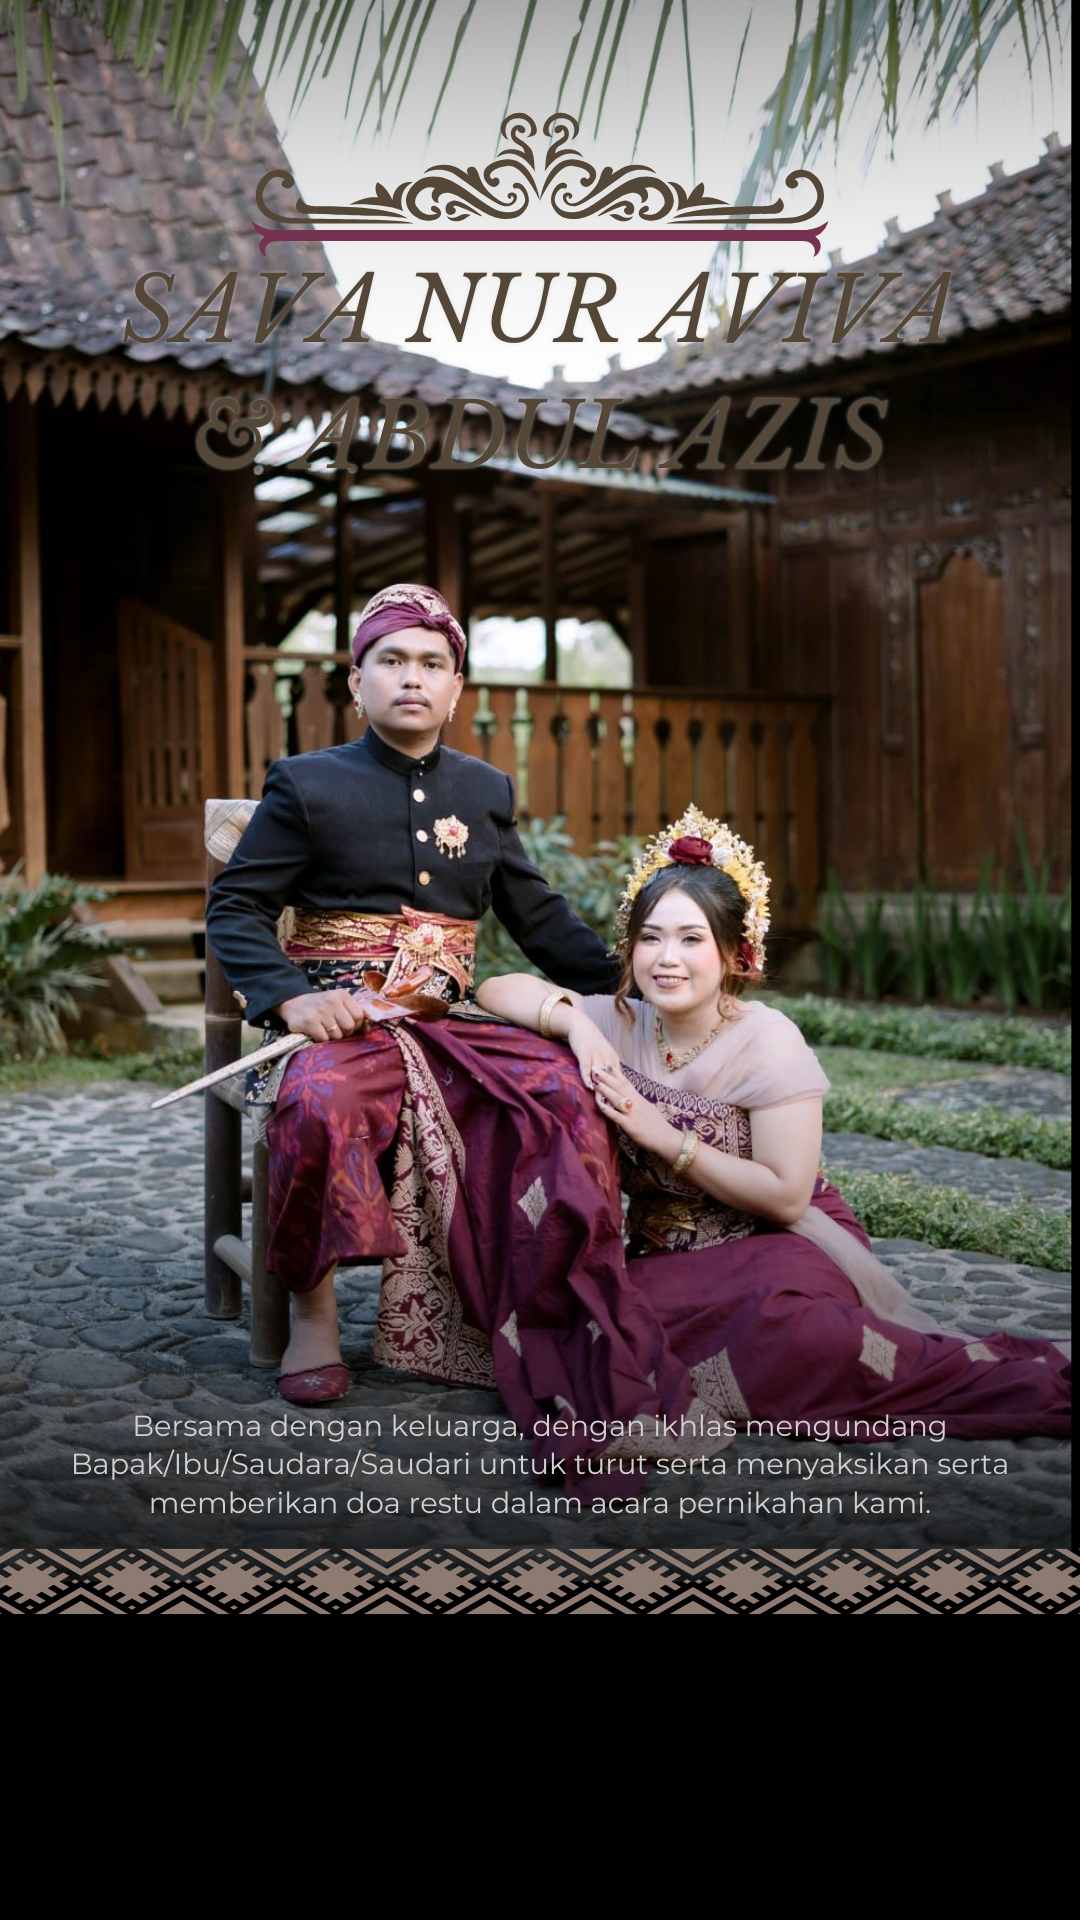
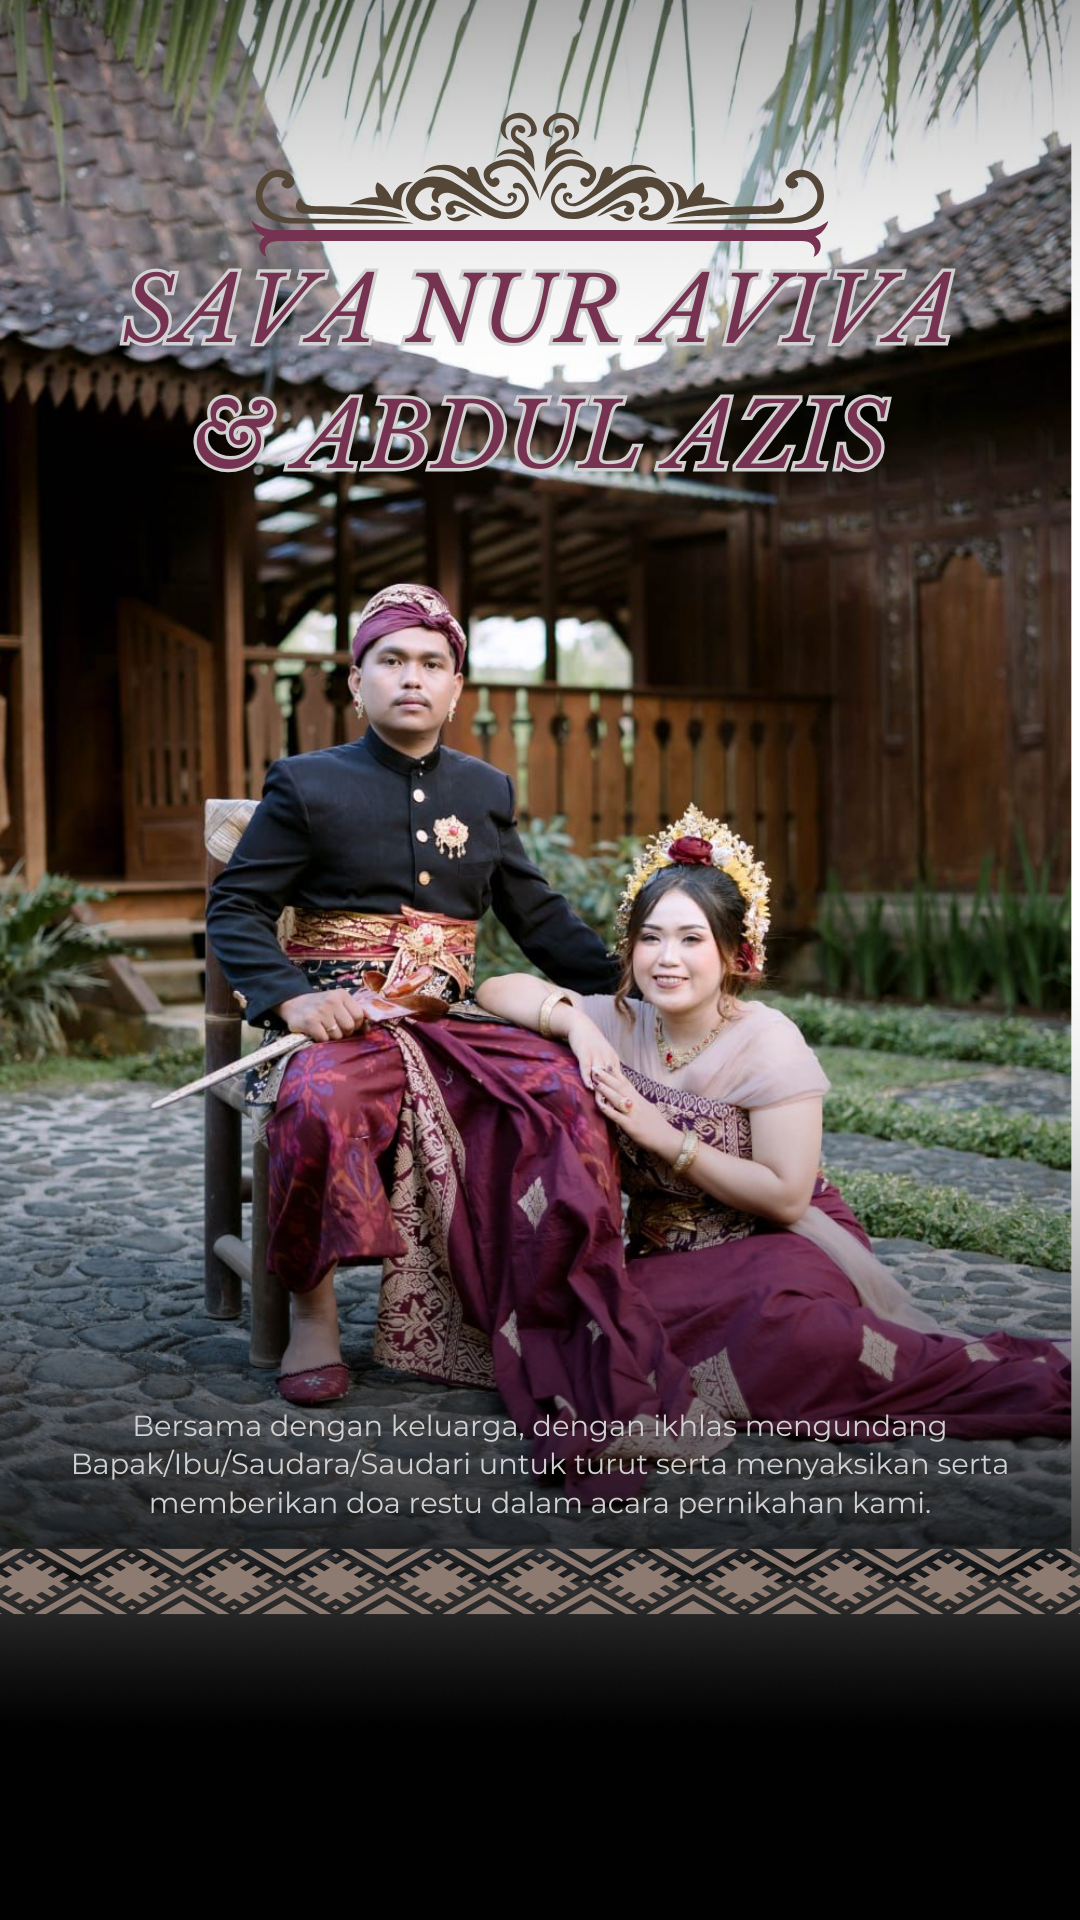
menganti foto pertama

Changed region(s): [[0.0, 0.0, 1.0, 0.875], [0.0917, 0.125, 0.8861, 0.25]]

diff --git a/app/undangan/page.tsx b/app/undangan/page.tsx
@@ -4,18 +4,18 @@ import Music from "@/components/music/music"
 import FadeContent from "@/components/FadeContent/FadeContent"
 import AnimatedContent from "@/components/AnimatedContent/AnimatedContent"
 
-const undangan =()=>{
-    return (
-        <>
-        <div className="md:px-96">
-          <Music></Music>
-        </div>
-    
-        <FadeContent blur={true} duration={1000} easing="ease-out" initialOpacity={0}>
+const undangan = () => {
+  return (
+    <>
+      <div className="md:px-96">
+        <Music></Music>
+      </div>
+
+      <FadeContent blur={true} duration={1000} easing="ease-out" initialOpacity={0}>
         <div className='md:px-96'>
           <img src="images/1.png" alt="" />
         </div>
-    
+
         <div className="-mt-16 justify-center flex md:px-96">
           <img src="images/bismillah.png" alt="" />
         </div>
@@ -33,158 +33,148 @@ const undangan =()=>{
             <p className="text-center">Assalamu’alaikum Warahmatullahi Wabarakatuh, Dengan memohon rahmat dan ridho Allah SWT, Kami Mengundang Bapak/Ibu/Saudara/i, untuk menghadiri acara pernikahan kami.</p>
           </div>
         </AnimatedContent>
-       
-    
+
+
         <div className='relative md:px-96'>
           <img src="images/2.png" alt="" className='relative' />
           <FadeContent>
-          <div className="absolute inset-0 md:px-96 mt-96 px-10">
-            <h1 className="font-bold text-4xl md:text-3xl md:-mt-40 md:text-center">ABDUL AZIS</h1>
-            <p className="md:text-center">Bp Juwari Ibu Jumiah</p>
-            <p className="md:text-center">Gamping Rt 10/Rw 03 Sidokumpul – Patean</p>
-          </div>
+            <div className="absolute inset-0 md:px-96 mt-96 px-10">
+              <h1 className="font-bold text-4xl md:text-3xl md:-mt-40 md:text-center">ABDUL AZIS</h1>
+              <p className="md:text-center">Bp Juwari Ibu Jumiah</p>
+              <p className="md:text-center">Gamping Rt 10/Rw 03 Sidokumpul – Patean</p>
+            </div>
           </FadeContent>
         </div>
-    
+
         <div className='relative md:px-96'>
           <img src="images/3.png" alt="" />
           <FadeContent>
-          <div className="absolute inset-0 md:px-96 mt-96 px-10">
-            <h1 className="font-bold text-4xl md:text-3xl md:-mt-40 md:text-center">SAVA NUR AVIVA</h1>
-            <p className="md:text-center">Bp Nur Wahono Ibu Karsini</p>
-            <p className="md:text-center">Gamping Rt 10/Rw 03 Sidokumpul – Patean</p>
-          </div>
+            <div className="absolute inset-0 md:px-96 mt-96 px-10">
+              <h1 className="font-bold text-4xl md:text-3xl md:-mt-40 md:text-center">SAVA NUR AVIVA</h1>
+              <p className="md:text-center">Bp Nur Wahono Ibu Karsini</p>
+              <p className="md:text-center">Gamping Rt 10/Rw 03 Sidokumpul – Patean</p>
+            </div>
           </FadeContent>
         </div>
-    
+
         <FadeContent>
-        <div className="flex justify-center mt-2">
-          <img src="images/akad.png" className="w-80 h-auto" alt="" />
-        </div>
+          <div className="flex justify-center mt-2">
+            <img src="images/akad.png" className="w-80 h-auto" alt="" />
+          </div>
         </FadeContent>
-    
+
         <FadeContent>
-        <div className=" px-10 md:px-96 mt-3">
-          <p className="text-center mt-2">Sabtu Paing 14 Juni 2025</p>
-          <p className="text-center mt-1"> Pukul 08.00</p>
-          <p className="text-center mt-1"> 📍
-            <br />Gamping Rt 10/Rw 03 
-            <br />Sidokumpul – Patean
-          </p>
-          <div className="flex justify-center mt-3">
-            <a href="https://www.google.com/maps/place/7%C2%B004'48.5%22S+110%C2%B006'37.4%22E/@-7.0801358,110.1078148,17z/data=!3m1!4b1!4m4!3m3!8m2!3d-7.0801358!4d110.1103897?hl=id&entry=ttu&g_ep=EgoyMDI1MDUwNy4wIKXMDSoASAFQAw%3D%3D" 
-            className="bg-blue-600 p-2 rounded-xl hover:bg-blue-500">Lihat lokasi</a>
-          </div>
-          <hr className="mt-3" />
-          <div className="mt-3">
-            <Countdown></Countdown>
-          </div>
-        </div>
-        </FadeContent>
-    
-    
-        <FadeContent>
-        <div className="flex justify-center mt-5">
-          <img src="images/wayang.png" className="w-52 h-auto" alt="" />
-        </div>
-    
-        <div className="px-10 md:px-96 ">
-          <div className="flex justify-center">
-            <h1 className="font-medium text-6xl font-upakarti">Our Gallery</h1>
-          </div>
-          <div className="text-center">
-          <p>“Loved you yesterday, love you still,always have, always will.”</p>
-          </div>
-          <div className= " mt-2 ">
-             {/* Foto */}
-             <div className="border rounded-xl">
-              <div className="columns-2 sm:columns-3 md:columns-4 gap-4 p-5">
-                <img src="images/1 (1).jpeg" alt="" className="mb-4 rounded-md break-inside-avoid transition-transform hover:scale-105 duration-300" />
-                <img src="images/1 (2).jpeg" alt="" className="mb-4 rounded-md break-inside-avoid transition-transform hover:scale-105 duration-300" />
-                <img src="images/1 (3).jpeg" alt="" className="mb-4 rounded-md break-inside-avoid transition-transform hover:scale-105 duration-300" />
-                <img src="images/1 (4).jpeg" alt="" className="mb-4 rounded-md break-inside-avoid transition-transform hover:scale-105 duration-300" />
-                <img src="images/1 (6).jpeg" alt="" className="mb-4 rounded-md break-inside-avoid transition-transform hover:scale-105 duration-300" />
-                <img src="images/1 (7).jpeg" alt="" className="mb-4 rounded-md break-inside-avoid transition-transform hover:scale-105 duration-300" />
-                <img src="images/1 (9).jpeg" alt="" className="mb-4 rounded-md break-inside-avoid transition-transform hover:scale-105 duration-300" />
-                <img src="images/1 (10).jpeg" alt="" className="mb-4 rounded-md break-inside-avoid transition-transform hover:scale-105 duration-300" />
-              </div>
-             </div>
-          </div>
-        </div>
-        </FadeContent>
-    
-        <FadeContent>
-        <div className="flex justify-center mt-5">
-            <img src="images/pagar.png" className="w-96 h-auto" alt="" />
-        </div>
-    
-        <h1 className="text-center font-bold text-4xl">Wedding Gift</h1>
-        <div className="px-10 md:px-96 mt-2">
-          <div className="border rounded-xl">
-            <div className="p-3">
-              <p className="text-center">Doa restu anda merupakan karunia yang sangat berarti bagi kami, dan jika memberi adalah ungkapan tanda kasih anda, anda dapat memberi kado secara cashless.</p>
+          <div className=" px-10 md:px-96 mt-3">
+            <p className="text-center mt-2">Sabtu Paing 14 Juni 2025</p>
+            <p className="text-center mt-1"> Pukul 08.00</p>
+            <p className="text-center mt-1"> 📍
+              <br />Gamping Rt 10/Rw 03
+              <br />Sidokumpul – Patean
+            </p>
+            <div className="flex justify-center mt-3">
+              <a href="https://www.google.com/maps/place/7%C2%B004'48.5%22S+110%C2%B006'37.4%22E/@-7.0801358,110.1078148,17z/data=!3m1!4b1!4m4!3m3!8m2!3d-7.0801358!4d110.1103897?hl=id&entry=ttu&g_ep=EgoyMDI1MDUwNy4wIKXMDSoASAFQAw%3D%3D"
+                className="bg-blue-600 p-2 rounded-xl hover:bg-blue-500">Lihat lokasi</a>
             </div>
-            <div className="p-5">
-              {/* rek 1 */}
-              <div className="bg-neutral-200 rounded-lg flex items-center px-3">
-                <div className="p-2">
-                  <img src="images/mandiri.png" className="w-32 -mt-5" alt="" />
-                  <h1 className="font-bold -mt-4 text-blue-950">SAVA NUR AVIVA</h1>
-                  <p className="text-blue-950 mb-3">1360019405320</p>
-                </div> 
-                <div className="p-2">
-                  <img src="images/gift.png" className="w-14 h-auto ml-5" alt="" />
-                </div>            
-              </div>
-              {/* rek2 */}
-              <div className="bg-neutral-200 rounded-lg mt-2 flex justify-between items-center px-3">
-                <div className="p-2">
-                  <img src="images/mandiri.png" className="w-32 -mt-5" alt="" />
-                  <h1 className="font-bold -mt-4 text-blue-950">ABDUL AZIS</h1>
-                  <p className="text-blue-950 mb-3">1360032352657</p>
-                </div>  
-                <div className="p-2">
-                  <img src="images/gift.png" className="w-14 h-auto" alt="" />
-                </div>          
+            <hr className="mt-3" />
+            <div className="mt-3">
+              <Countdown></Countdown>
+            </div>
+          </div>
+        </FadeContent>
+
+
+        <FadeContent>
+          <div className="flex justify-center mt-5">
+            <img src="images/wayang.png" className="w-52 h-auto" alt="" />
+          </div>
+
+          <div className="px-10 md:px-96 ">
+            <div className="flex justify-center">
+              <h1 className="font-medium text-6xl font-upakarti">Our Gallery</h1>
+            </div>
+            <div className="text-center">
+              <p>“Loved you yesterday, love you still,always have, always will.”</p>
+            </div>
+            <div className=" mt-2 ">
+              {/* Foto */}
+              <div className="border rounded-xl">
+                <div className="columns-2 sm:columns-3 md:columns-4 gap-4 p-5">
+                  <img src="images/1 (1).jpeg" alt="" className="mb-4 rounded-md break-inside-avoid transition-transform hover:scale-105 duration-300" />
+                  <img src="images/1 (2).jpeg" alt="" className="mb-4 rounded-md break-inside-avoid transition-transform hover:scale-105 duration-300" />
+                  <img src="images/1 (3).jpeg" alt="" className="mb-4 rounded-md break-inside-avoid transition-transform hover:scale-105 duration-300" />
+                  <img src="images/1 (4).jpeg" alt="" className="mb-4 rounded-md break-inside-avoid transition-transform hover:scale-105 duration-300" />
+                  <img src="images/1 (6).jpeg" alt="" className="mb-4 rounded-md break-inside-avoid transition-transform hover:scale-105 duration-300" />
+                  <img src="images/1 (7).jpeg" alt="" className="mb-4 rounded-md break-inside-avoid transition-transform hover:scale-105 duration-300" />
+                  <img src="images/1 (9).jpeg" alt="" className="mb-4 rounded-md break-inside-avoid transition-transform hover:scale-105 duration-300" />
+                  <img src="images/1 (10).jpeg" alt="" className="mb-4 rounded-md break-inside-avoid transition-transform hover:scale-105 duration-300" />
+                </div>
               </div>
             </div>
           </div>
-        </div>
         </FadeContent>
-    
+
         <FadeContent>
-        <div className="flex justify-center mt-5">
+          <div className="flex justify-center mt-5">
             <img src="images/pagar.png" className="w-96 h-auto" alt="" />
-        </div>
-        </FadeContent>
-    
-    
-        <FadeContent>
-        <div className="px-10 md:px-96">
-          <img src="images/lastcard.png" alt="" />
-          <div className="text-center">
-            <h1 className="text-5xl font-bold">Terimakasih</h1>
-            <p>Wassalamualaikum Wr. Wb</p>
-            <h1 className="text-2xl font-medium">Kami yang berbahagia</h1>
-            <h1>Kedua mempelai dan keluarga</h1>
           </div>
-        </div>
-        </FadeContent> 
-    
+
+          <h1 className="text-center font-bold text-4xl">Wedding Gift</h1>
+          <div className="px-10 md:px-96 mt-2">
+            <div className="border rounded-xl">
+              <div className="p-3">
+                <p className="text-center">Doa restu anda merupakan karunia yang sangat berarti bagi kami, dan jika memberi adalah ungkapan tanda kasih anda, anda dapat memberi kado secara cashless.</p>
+              </div>
+              <div className="p-5">
+                {/* rek 1 */}
+                <div className="bg-neutral-200 rounded-lg flex items-center px-3">
+                  <div className="p-2">
+                    <img src="images/mandiri.png" className="w-32 -mt-5" alt="" />
+                    <h1 className="font-bold -mt-4 text-blue-950">SAVA NUR AVIVA</h1>
+                    <p className="text-blue-950 mb-3">1360019405320</p>
+                  </div>
+                  <div className="p-2">
+                    <img src="images/gift.png" className="w-14 h-auto ml-5" alt="" />
+                  </div>
+                </div>
+              </div>
+            </div>
+          </div>
+        </FadeContent>
+
+        <FadeContent>
+          <div className="flex justify-center mt-5">
+            <img src="images/pagar.png" className="w-96 h-auto" alt="" />
+          </div>
+        </FadeContent>
+
+
+        <FadeContent>
+          <div className="px-10 md:px-96">
+            <img src="images/lastcard.png" alt="" />
+            <div className="text-center">
+              <h1 className="text-5xl font-bold">Terimakasih</h1>
+              <p>Wassalamualaikum Wr. Wb</p>
+              <h1 className="text-2xl font-medium">Kami yang berbahagia</h1>
+              <h1 className="text-2xl font-medium">Sava Nur Aviva</h1>
+              <h1 className="text-2xl font-medium">Abdul Azis</h1>
+            </div>
+          </div>
+        </FadeContent>
+
         <div className="flex justify-center mt-5">
-            <img src="images/pagarbunga.png" className="w-96 h-auto" alt="" />
+          <img src="images/pagarbunga.png" className="w-96 h-auto" alt="" />
         </div>
         <div className="md:px-96">
-        <div className="bg-amber-900 py-5">
-          <div className="px-10 text-center">
-            <h1>Designed by Vistar Studio</h1>
-            <a href="https://wa.me/6285225576590?text=Halo" className="underline">Order</a>
+          <div className="bg-amber-900 py-5">
+            <div className="px-10 text-center">
+              <h1>Designed by Vistar Studio</h1>
+              <a href="https://wa.me/6285225576590?text=Halo" className="underline">Order</a>
+            </div>
           </div>
         </div>
-        </div>
-        </FadeContent>
-        </>
-      )
-    }
+      </FadeContent>
+    </>
+  )
+}
 
-    export default undangan;
+export default undangan;
